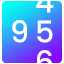
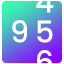
update vc element counter up: google font params

diff --git a/framework-customizations/extensions/custom-js-composer/vc-params/vc_counter_up.php b/framework-customizations/extensions/custom-js-composer/vc-params/vc_counter_up.php
@@ -11,10 +11,10 @@ class vcCounterUp extends WPBakeryShortCode {
         add_action( 'init', array( $this, 'vc_counter_up_mapping' ) );
         add_shortcode( 'vc_counter_up', array( $this, 'vc_counter_up_html' ) );
     }
- 
+
      // Element Mapping
     public function vc_counter_up_mapping() {
-        
+
         // Stop all if VC is not enabled
         if ( !defined( 'WPB_VC_VERSION' ) ) {
             return;
@@ -27,7 +27,7 @@ class vcCounterUp extends WPBakeryShortCode {
                 'base' => 'vc_counter_up',
                 'description' => __('Counter Up', 'alone'),
                 'category' => __('Theme Elements', 'alone'),
-                'icon' => get_template_directory_uri() . '/framework-customizations/extensions/custom-js-composer/images/liquid-button.png',
+                'icon' => get_template_directory_uri() . '/framework-customizations/extensions/custom-js-composer/images/counter-up.png',
                 'params' => array(
                     /* source */
                     array(
@@ -35,49 +35,56 @@ class vcCounterUp extends WPBakeryShortCode {
                         'heading' => __('Counter number', 'alone'),
                         'param_name' => 'counter_number',
                         'description' => __('Enter number', 'alone'),
-                        'group' => 'Source',
-                        'value' => '1,234',
-                    ), 
-                    array(
-                        'type' => 'colorpicker',
-                        'heading' => __('Text Color', 'alone'),
-                        'param_name' => 'text_color',
-                        'value' => '#000000',  
-                        'description' => __('Select text color', 'alone'),
-                        'group' => 'Source',
+                        // 'group' => 'Source',
+                        'value' => '2,846',
                     ),
                     array(
-                        'type' => 'dropdown',
-                        'heading' => __('Alignment', 'alone'),
-                        'param_name' => 'align',
-                        'description' => __('Select counter alignment', 'alone'),
-                        'value' => array(
-                        __('Left', 'alone') => 'left',
-                        __('Right', 'alone') => 'right',
-                        __('Center', 'alone') => 'center',
-                        ),
-                        'std' => 'center',
-                        'group' => 'Source',
-                    ),
+              				'type' => 'font_container',
+              				'param_name' => 'font_container',
+              				'value' => 'tag:h2|text_align:left',
+              				'settings' => array(
+              					'fields' => array(
+              						'tag' => 'h2',
+              						// default value h2
+              						'text_align',
+              						'font_size',
+              						'line_height',
+              						'color',
+              						'tag_description' => __( 'Select element tag.', 'alone' ),
+              						'text_align_description' => __( 'Select text alignment.', 'alone' ),
+              						'font_size_description' => __( 'Enter font size.', 'alone' ),
+              						'line_height_description' => __( 'Enter line height.', 'alone' ),
+              						'color_description' => __( 'Select heading color.', 'alone' ),
+              					),
+              				),
+                      // 'group' => 'Source',
+              			),
                     array(
-                        'type' => 'textfield',
-                        'heading' => __('Font size', 'alone'),
-                        'param_name' => 'font_size',
-                        'description' => __('Enter font size', 'alone'),
-                        'group' => 'Source',
-                        'value' => '',
-                    ),
+              				'type' => 'checkbox',
+              				'heading' => __( 'Use theme default font family?', 'alone' ),
+              				'param_name' => 'use_theme_fonts',
+              				'value' => array( __( 'Yes', 'alone' ) => 'yes' ),
+              				'description' => __( 'Use font family from the theme.', 'alone' ),
+                      // 'group' => 'Source',
+              			),
                     array(
-                        'type' => 'textarea_safe',
-                        'heading' => __('Custom css', 'alone'),
-                        'param_name' => 'custom_css',
-                        'description' => __('Enter css custom (ex: font-family: "Arial"; font-weight: bold;)', 'alone'),
-                        'group' => 'Source',
-                        'value' => '',
-                    ),
+              				'type' => 'google_fonts',
+              				'param_name' => 'google_fonts',
+              				'value' => 'font_family:Abril%20Fatface%3Aregular|font_style:400%20regular%3A400%3Anormal',
+              				'settings' => array(
+              					'fields' => array(
+              						'font_family_description' => __( 'Select font family.', 'alone' ),
+              						'font_style_description' => __( 'Select font styling.', 'alone' ),
+              					),
+              				),
+              				'dependency' => array(
+              					'element' => 'use_theme_fonts',
+              					'value_not_equal_to' => 'yes',
+              				),
+                      // 'group' => 'Custom Font Settings',
+              			),
 
-                    /*Setting*/
-                    
+                    /* Setting */
                     array(
                         'type' => 'textfield',
                         'heading' => __('Before prefix', 'alone'),
@@ -117,15 +124,16 @@ class vcCounterUp extends WPBakeryShortCode {
                         'heading' => __( 'Element ID', 'alone' ),
                         'param_name' => 'el_id',
                         'description' => __( 'Enter element ID .', 'alone' ),
-                        'group' => 'Source',
+                        // 'group' => 'Source',
                     ),
                     array(
                         'type' => 'textfield',
                         'heading' => __( 'Extra class name', 'alone' ),
                         'param_name' => 'el_class',
                         'description' => __( 'Style particular content element differently - add a class name and refer to it in custom CSS.', 'alone' ),
-                        'group' => 'Source',
+                        // 'group' => 'Source',
                     ),
+
                     /* css editor */
                     array(
                         'type' => 'css_editor',
@@ -138,22 +146,114 @@ class vcCounterUp extends WPBakeryShortCode {
         );
 
     }
- 
+
+    // Enqueue right google font from Googleapis
+    public function enqueueGoogleFonts( $fontsData ) {
+
+        // Get extra subsets for settings (latin/cyrillic/etc)
+        $settings = get_option( 'wpb_js_google_fonts_subsets' );
+        if ( is_array( $settings ) && ! empty( $settings ) ) {
+            $subsets = '&subset=' . implode( ',', $settings );
+        } else {
+            $subsets = '';
+        }
+
+        // We also need to enqueue font from googleapis
+        if ( isset( $fontsData['values']['font_family'] ) ) {
+            wp_enqueue_style(
+                'vc_google_fonts_' . vc_build_safe_css_class( $fontsData['values']['font_family'] ),
+                '//fonts.googleapis.com/css?family=' . $fontsData['values']['font_family'] . $subsets
+            );
+        }
+
+    }
+
+    public function getAttributes( $atts ) {
+  		/**
+  		 * Shortcode attributes
+  		 * @var $text
+  		 * @var $google_fonts
+  		 * @var $font_container
+  		 * @var $el_class
+  		 * @var $link
+  		 * @var $css
+  		 */
+  		// $atts = vc_map_get_attributes( $this->getShortcode(), $atts );
+  		extract( $atts );
+
+  		/**
+  		 * Get default values from VC_MAP.
+  		 **/
+  		$google_fonts_field = $google_fonts; // $this->getParamData( 'google_fonts' );
+  		$font_container_field = $font_container; // $this->getParamData( 'font_container' );
+
+  		// $el_class = $this->getExtraClass( $el_class );
+  		$font_container_obj = new Vc_Font_Container();
+  		$google_fonts_obj = new Vc_Google_Fonts();
+  		$font_container_field_settings = isset( $font_container_field['settings'], $font_container_field['settings']['fields'] ) ? $font_container_field['settings']['fields'] : array();
+  		$google_fonts_field_settings = isset( $google_fonts_field['settings'], $google_fonts_field['settings']['fields'] ) ? $google_fonts_field['settings']['fields'] : array();
+  		$font_container_data = $font_container_obj->_vc_font_container_parse_attributes( $font_container_field_settings, $font_container );
+  		$google_fonts_data = strlen( $google_fonts ) > 0 ? $google_fonts_obj->_vc_google_fonts_parse_attributes( $google_fonts_field_settings, $google_fonts ) : '';
+
+  		return array(
+  			// 'counter_number' => isset( $counter_number ) ? $counter_number : '',
+  			'google_fonts' => $google_fonts,
+  			'font_container' => $font_container,
+  			// 'el_class' => $el_class,
+  			// 'css' => isset( $css ) ? $css : '',
+  			// 'link' => ( 0 === strpos( $link, '|' ) ) ? false : $link,
+  			'font_container_data' => $font_container_data,
+  			'google_fonts_data' => $google_fonts_data,
+  		);
+  	}
+
     /**
   	 * Parses google_fonts_data and font_container_data to get needed css styles to markup
   	 *
   	 * @param $el_class
   	 * @param $css
+  	 * @param $google_fonts_data
+  	 * @param $font_container_data
   	 * @param $atts
   	 *
-  	 * @since 1.0
+  	 * @since 4.3
   	 * @return array
   	 */
-    public function getStyles($el_class, $css, $atts) {
-        $styles = array();
-	  
-        /**
-  		 * Filter 'VC_SHORTCODE_CUSTOM_CSS_FILTER_TAG' to change vc_counter_up class
+  	public function getStyles( $el_class, $css, $google_fonts_data, $font_container_data, $atts ) {
+  		$styles = array();
+  		if ( ! empty( $font_container_data ) && isset( $font_container_data['values'] ) ) {
+  			foreach ( $font_container_data['values'] as $key => $value ) {
+  				if ( 'tag' !== $key && strlen( $value ) ) {
+  					if ( preg_match( '/description/', $key ) ) {
+  						continue;
+  					}
+  					if ( 'font_size' === $key || 'line_height' === $key ) {
+  						$value = preg_replace( '/\s+/', '', $value );
+  					}
+  					if ( 'font_size' === $key ) {
+  						$pattern = '/^(\d*(?:\.\d+)?)\s*(px|\%|in|cm|mm|em|rem|ex|pt|pc|vw|vh|vmin|vmax)?$/';
+  						// allowed metrics: http://www.w3schools.com/cssref/css_units.asp
+  						$regexr = preg_match( $pattern, $value, $matches );
+  						$value = isset( $matches[1] ) ? (float) $matches[1] : (float) $value;
+  						$unit = isset( $matches[2] ) ? $matches[2] : 'px';
+  						$value = $value . $unit;
+  					}
+  					if ( strlen( $value ) > 0 ) {
+  						$styles[] = str_replace( '_', '-', $key ) . ': ' . $value;
+  					}
+  				}
+  			}
+  		}
+  		if ( ( ! isset( $atts['use_theme_fonts'] ) || 'yes' !== $atts['use_theme_fonts'] ) && ! empty( $google_fonts_data ) && isset( $google_fonts_data['values'], $google_fonts_data['values']['font_family'], $google_fonts_data['values']['font_style'] ) ) {
+  			$google_fonts_family = explode( ':', $google_fonts_data['values']['font_family'] );
+  			$styles[] = 'font-family:' . $google_fonts_family[0];
+  			$google_fonts_styles = explode( ':', $google_fonts_data['values']['font_style'] );
+  			$styles[] = 'font-weight:' . $google_fonts_styles[1];
+  			$styles[] = 'font-style:' . $google_fonts_styles[2];
+  		}
+
+  		/**
+  		 * Filter 'VC_SHORTCODE_CUSTOM_CSS_FILTER_TAG' to change vc_custom_heading class
   		 *
   		 * @param string - filter_name
   		 * @param string - element_class
@@ -162,13 +262,14 @@ class vcCounterUp extends WPBakeryShortCode {
   		 *
   		 * @since 4.3
   		 */
-  		$css_class = apply_filters( 'vc_counter_up_filter_class', 'wpb_theme_custom_element wpb_counter_up ' . $el_class . vc_shortcode_custom_css_class( $css, ' ' ), $this->settings['base'], $atts );
+      // $css_class = apply_filters( 'vc_counter_up_filter_class', 'wpb_theme_custom_element wpb_counter_up ' . $el_class . vc_shortcode_custom_css_class( $css, ' ' ), $this->settings['base'], $atts );
+  		$css_class = apply_filters( VC_SHORTCODE_CUSTOM_CSS_FILTER_TAG, 'wpb_theme_custom_element wpb_counter_up ' . $el_class . vc_shortcode_custom_css_class( $css, ' ' ), $this->settings['base'], $atts );
 
   		return array(
   			'css_class' => trim( preg_replace( '/\s+/', ' ', $css_class ) ),
   			'styles' => $styles,
   		);
-    }
+  	}
 
 
     public function _template($temp = 'default', $params = array()) {

diff --git a/framework-customizations/extensions/custom-js-composer/vc-elements/vc_counter_up.php b/framework-customizations/extensions/custom-js-composer/vc-elements/vc_counter_up.php
@@ -9,15 +9,17 @@ $atts = shortcode_atts(
     'self'              => '',
     'content'           => '',
     /* Source */
-    'counter_number'    => '1,234',   
+    'counter_number'    => '2,846',
     'before_prefix'     => '$',
     'after_prefix'      => '',
     'text_color'        => '#000000',
     'delay'             => '10',
-    'time'              => '1000', 
-    'align'             => 'center', 
-    'font_size'         => '',
-    'custom_css'        => '',
+    'time'              => '1000',
+    'align'             => 'center',
+    'use_theme_fonts'   => '',
+    'google_fonts'      => 'font_family:Abril%20Fatface%3Aregular|font_style:400%20regular%3A400%3Anormal',
+		'font_container'    => 'h2',
+
     /* Style */
     'el_id'             => '',
     'el_class'          => '',
@@ -26,18 +28,25 @@ $atts = shortcode_atts(
   $atts
 );
 extract($atts);
-//echo '<pre>';print_r($atts);echo '</pre>';
+// echo '<pre>';print_r($atts);echo '</pre>';
 
-$bt_style = "color: " . esc_attr($text_color) . "; ";
-$bt_style .= esc_attr( !empty($font_size) ? "font-size: {$font_size}; " : "" );
-$bt_style .=  $custom_css ;
+// This is needed to extract $font_container_data and $google_fonts_data
+extract( $self->getAttributes( $atts ) );
 
 $content = wpb_js_remove_wpautop($content, true);
 
 /**
  * @var $css_class
  */
-extract( $self->getStyles( $el_class, $css, $atts ) );
+extract( $self->getStyles( $el_class, $css, $google_fonts_data, $font_container_data, $atts ) );
+
+$self->enqueueGoogleFonts($google_fonts_data);
+
+if ( ! empty( $styles ) ) {
+	$style = 'style="' . esc_attr( implode( ';', $styles ) ) . '"';
+} else {
+	$style = '';
+}
 
 /** elm ID **/
 $attr_id = '';
@@ -45,14 +54,32 @@ if(! empty($el_id)) { $attr_id = "id='{$el_id}'"; }
 
 $counteup_data = json_encode(array(
   'delay' => $delay,
-  'time' => $time, 
+  'time' => $time,
 ));
 
+$variables = array(
+  '{tag}'                 => fw_akg('values/tag', $font_container_data),
+  '{style_attr}'          => $style,
+  '{counter_number}'      => $counter_number,
+  '{before_prefix}'       => $before_prefix,
+  '{after_prefix}'        => $after_prefix,
+);
+
+$templates = array(
+  'default' => implode('', array(
+    '<{tag} {style_attr}>',
+      '{before_prefix}',
+      '<span class="counterUp" data-bears-counterup="{counter_number}">',
+        '{counter_number}',
+      '</span>',
+      '{after_prefix}',
+    '</{tag}>',
+  )),
+);
+
 ?>
-<div <?php echo esc_attr($attr_id); ?> class="<?php echo esc_attr($css_class); ?> text-<?php echo esc_attr($align); ?>"> 
-    <div style="<?php echo $bt_style; ?>">
-        <?php echo esc_attr($before_prefix); ?>
-            <span class="counterUp" data-bears-counterup="<?php echo esc_attr($counteup_data); ?>"><?php echo $counter_number ?></span>
-        <?php echo esc_attr($after_prefix); ?>
-    </div> 
+<div <?php echo esc_attr($attr_id); ?> class="<?php echo esc_attr($css_class); ?> text-<?php echo esc_attr($align); ?>">
+  <div class="vc-custom-inner-wrap">
+    <?php echo str_replace(array_keys($variables), array_values($variables), $templates['default']); ?>
+  </div>
 </div>
